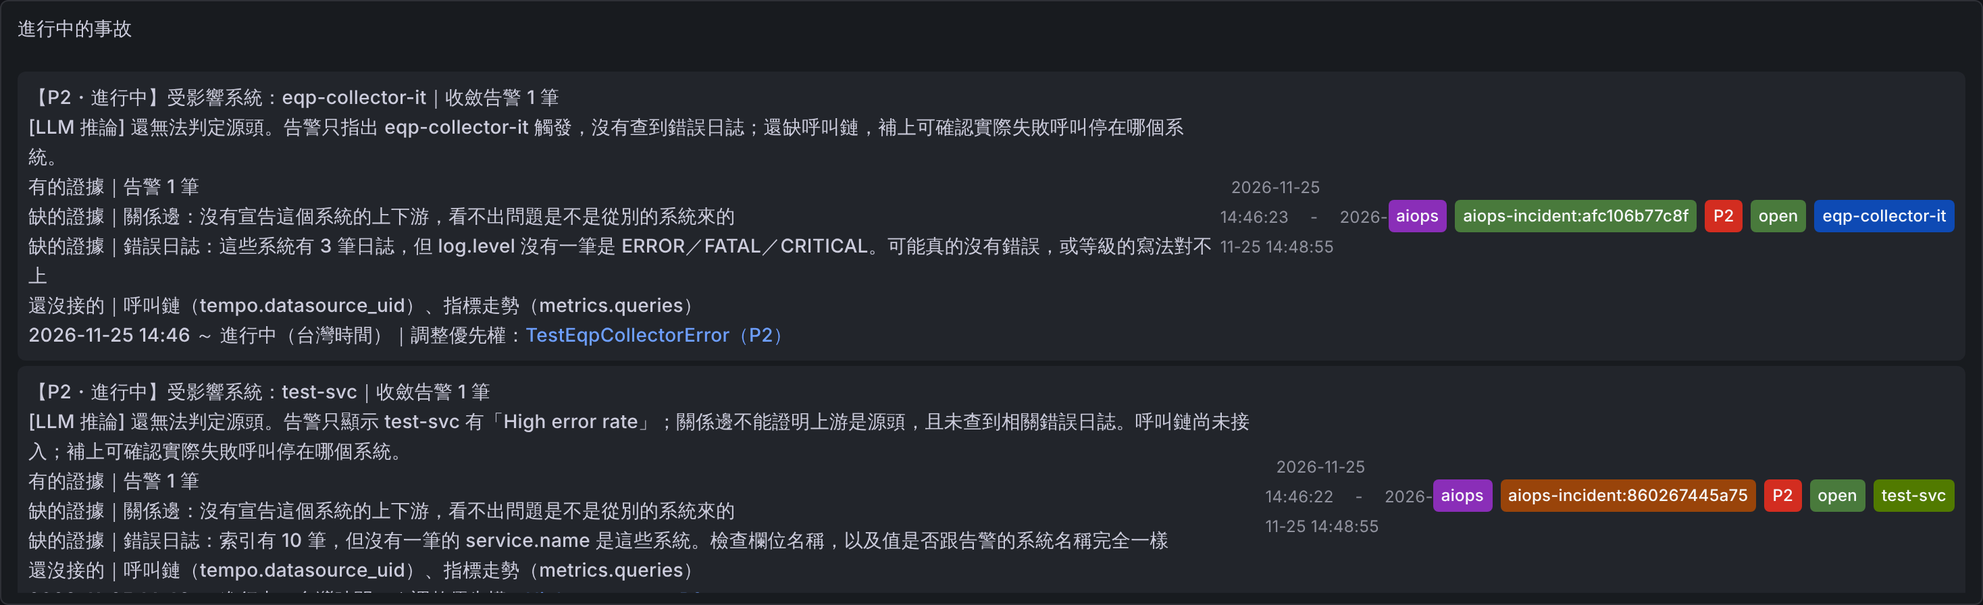
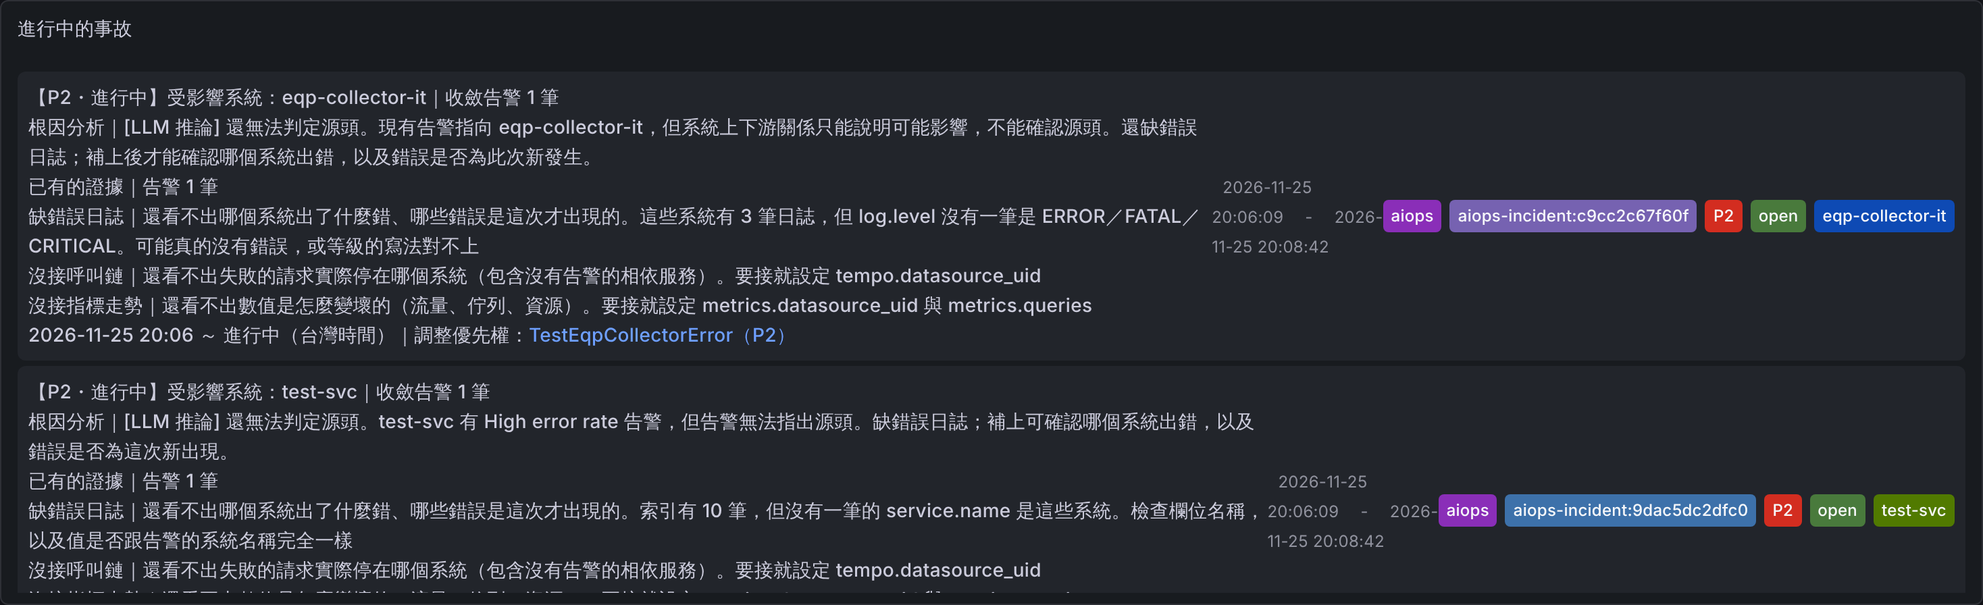
註記以根因分析為主：缺的證據改成說「少了它還看不出什麼」
使用者回饋：註記列了一堆證據，但看不出跟根因分析有什麼關係。
主角應該是根因分析；缺什麼要列，但要說缺了它哪一種分析做不了。

- 第 2 行加上標題：根因分析｜[LLM 推論] …（[未經分析] 同樣）。
- 證據的幾行改寫（都還是程式照實際撈到的結果產生）：
    已有的證據｜…
    缺<名稱>｜還看不出<它能回答的問題>。<哪一關沒過、要檢查什麼>
    <名稱>查詢失敗｜還看不出…。<原因>
    沒接<名稱>｜還看不出…。要接就設定 <config.yaml 的鍵>
  每種證據能回答什麼問題集中在 rca.CAN_ANSWER 一張表。
  沒接的來源原本擠在同一行，現在每項一行，因為各自擋住的分析不同。
- 提示詞裡引用這幾行的用字跟著改。沒有新增查詢，也沒有新的對外接口。

既有測試的變更：註記與證據行的用字是這次刻意改的，test_main、
test_overview、test_rca_report_db 裡比對這些文字的斷言照新的用字更新；
檢查的事情（哪一關沒過、每項一行、有跳脫、三種 0 筆的原因分得出來）沒有變。

驗證（本機真的 Grafana 13.0.7、Elasticsearch 8.19.23、LLM gpt-6-luna）
- 完整流程三張事故的註記照新版面寫進 Grafana，畫面在
  demo/images/5-evidence-lines.png：日誌齊全的那張寫出源頭與依據；
  另外兩張寫「還無法判定」，底下分別指出系統名稱對不上、沒有錯誤等級的日誌。
- 評估案例各 5 次：開發用的 50/50（改動前 48/50）；留出的 25/30
  （改動前 27/30）。少的兩次都在 h01；h01 在改動前後的程式上各跑 10 次
  都是 3/10，不是這次造成的，那一題本來就只有三成。
- 267 個測試，SQLite 與 PostgreSQL 16 都通過。

限制：只有告警、其他證據都缺時，根因分析一定是「還無法判定」；
這次改的是把它講清楚，不會讓沒有證據的事故變得分析得出來。
註記比之前再多一兩行。

Claude-Session: https://claude.ai/code/session_016jTR1CgmEDqbHkLDUFUu17

Changed region(s): [[0.0, 0.1875, 0.8678, 0.5938], [0.0, 0.6875, 0.9918, 0.9688], [0.6199, 0.2812, 0.6509, 0.3125]]

diff --git a/tests/test_overview.py b/tests/test_overview.py
@@ -59,7 +59,7 @@ def test_everything_present_is_listed_with_counts(fake):
     assert text.startswith("告警 3 筆、這些系統之間的關係邊 2 條、錯誤日誌 ")
     for part in ("識別碼", "跨系統時間線", "失敗請求的呼叫鏈 1 條", "指標走勢 1 條"):
         assert part in text
-    assert rca.overview_text(got) == "有的證據｜" + text   # 什麼都不缺：只有一行
+    assert rca.overview_text(got) == "已有的證據｜" + text   # 什麼都不缺：只有一行
 
 
 # ── 錯誤日誌 0 筆：三種原因分得出來，各有下一步 ──
@@ -74,7 +74,7 @@ def test_zero_error_logs_says_which_step_failed(fake, counts, says, next_step):
     fake.log_counts = counts
     ev = collect(fake)
     text = line(ev)
-    [missing] = [l for l in text.splitlines() if l.startswith("缺的證據｜錯誤日誌：")]   # 自己一行
+    [missing] = [l for l in text.splitlines() if l.startswith("缺錯誤日誌｜還看不出哪個系統出了什麼錯、哪些錯誤是這次才出現的。")]   # 自己一行，先講少了它哪種分析做不了
     assert says in missing and next_step in missing
     assert len(fake.count_requests) == 1
     # 送出去的計數查詢跟錄製時同一個形狀（兩個子查詢：整個時間窗、時間窗 + 系統）
@@ -100,14 +100,15 @@ def test_if_the_count_itself_fails_the_line_still_says_logs_are_missing(fake):
     real = fake.msearch
     fake.msearch = lambda body: real(body) if '"size": 100' in body else httpx.Response(500, json={"message": "boom"})
     ev = collect(fake)
-    assert "缺的證據｜錯誤日誌：沒有查到這些系統的錯誤日誌" in line(ev) and "log_counts" not in ev
+    assert "缺錯誤日誌｜還看不出哪個系統出了什麼錯、哪些錯誤是這次才出現的。沒有查到這些系統的錯誤日誌" in line(ev) and "log_counts" not in ev
 
 
 # ── 沒接、查詢失敗 ──
 
 def test_sources_that_are_not_configured_are_listed_as_not_connected(fake):
     text = line(collect(fake, es=""))
-    assert "還沒接的｜日誌（es.datasource_uid）、呼叫鏈（tempo.datasource_uid）、指標走勢（metrics.queries）" in text
+    assert [l.split("｜")[0] for l in text.splitlines()[1:]] == ["沒接日誌", "沒接呼叫鏈", "沒接指標走勢"]
+    assert "沒接日誌｜還看不出哪個系統出了什麼錯、哪些錯誤是這次才出現的。要接就設定 es.datasource_uid" in text
     assert "查詢失敗" not in text
 
 
@@ -115,7 +116,7 @@ def test_failed_queries_are_reported_as_failed_not_as_missing(fake):
     fake.fail.add("/api/datasources/proxy/uid/")
     ev = collect(fake, tempo="tempo-uid", metrics=rca.MetricOptions(datasource_uid="prom-uid", queries=(METRIC,)))
     got = rca.overview(ev)
-    assert [s.split("：")[0] for s in got["failed"]] == ["日誌", "呼叫鏈", "指標走勢"] and got["off"] == []
+    assert [name for name, _why in got["failed"]] == ["日誌", "呼叫鏈", "指標走勢"] and got["off"] == []
 
 
 def test_queried_but_empty_traces_and_metrics_say_why(fake):
@@ -123,14 +124,15 @@ def test_queried_but_empty_traces_and_metrics_say_why(fake):
     ev = collect(fake, incident("amhs-mcs"), tempo="tempo-uid",
                  metrics=rca.MetricOptions(datasource_uid="prom-uid", queries=(METRIC,)))
     text = line(ev)
-    assert "缺的證據｜呼叫鏈：Tempo 裡沒有這些系統的失敗請求" in text and "缺的證據｜指標走勢：設定的查詢在這段時間都沒有資料" in text
+    assert "缺呼叫鏈｜還看不出失敗的請求實際停在哪個系統（包含沒有告警的相依服務）。Tempo 裡沒有這些系統的失敗請求" in text
+    assert "缺指標走勢｜還看不出數值是怎麼變壞的（流量、佇列、資源）。設定的查詢在這段時間都沒有資料" in text
 
 
 # ── 關係邊 ──
 
 def test_edges_are_judged_against_the_systems_in_this_incident(fake):
     assert "這些系統之間的關係邊 2 條" in line(collect(fake))
-    assert "缺的證據｜關係邊：這幾個系統之間沒有宣告上下游" in line(collect(fake, edges=[("x", "y")]))
+    assert "缺關係邊｜還看不出這幾個系統誰影響誰。這幾個系統之間沒有宣告上下游" in line(collect(fake, edges=[("x", "y")]))
     assert "連到這個系統的關係邊 1 條（另一端沒有告警）" in line(collect(fake, incident("mq-broker")))
     alone = line(collect(fake, incident("mq-broker"), edges=[]))
     assert "關係邊" not in alone   # 單一系統、沒宣告關係邊：不算缺（系統自己出問題時不需要它）
@@ -141,11 +143,11 @@ def test_edges_are_judged_against_the_systems_in_this_incident(fake):
 def test_annotation_shows_the_evidence_line_between_summary_and_time_and_escapes_it():
     inc = incident()
     inc.summary = "[LLM 推論] 還無法判定源頭"
-    inc.evidence_note = "有的證據｜告警 3 筆\n缺的證據｜錯誤日誌：<b>x</b>  多個空白\n\n還沒接的｜呼叫鏈（tempo.datasource_uid）"
+    inc.evidence_note = "已有的證據｜告警 3 筆\n缺錯誤日誌｜<b>x</b>  多個空白\n\n沒接呼叫鏈｜要接就設定 tempo.datasource_uid"
     l1, l2, have, missing, off, last = report.render(inc, "http://g", "Asia/Taipei")["text"].split("<br>")
-    assert (have, off) == ("有的證據｜告警 3 筆", "還沒接的｜呼叫鏈（tempo.datasource_uid）")
-    assert missing == "缺的證據｜錯誤日誌：&lt;b&gt;x&lt;/b&gt; 多個空白"   # 跳脫；每項自己一行
-    assert l2 == "[LLM 推論] 還無法判定源頭" and "台灣時間" in last
+    assert (have, off) == ("已有的證據｜告警 3 筆", "沒接呼叫鏈｜要接就設定 tempo.datasource_uid")
+    assert missing == "缺錯誤日誌｜&lt;b&gt;x&lt;/b&gt; 多個空白"   # 跳脫；每項自己一行
+    assert l2 == "根因分析｜[LLM 推論] 還無法判定源頭" and "台灣時間" in last
     inc.evidence_note = ""
     assert report.render(inc, "http://g", "Asia/Taipei")["text"].count("<br>") == 2   # 還沒收集過證據：沒有這一行
 
@@ -165,9 +167,9 @@ def test_a_round_writes_the_reason_into_the_annotation_and_tells_the_llm(world):
     w.receive("firing_mq", "firing_cim")
     assert w.run(60, llm=httpx.MockTransport(llm))["status"] == "ok"
     [inc] = rows(w, dbmod.incidents)
-    assert "缺的證據｜錯誤日誌：索引有 4 筆，但沒有一筆的 service.name 是這些系統" in inc["evidence_note"]
+    assert "缺錯誤日誌｜還看不出哪個系統出了什麼錯、哪些錯誤是這次才出現的。索引有 4 筆，但沒有一筆的 service.name 是這些系統" in inc["evidence_note"]
     note = w.fake.annotations[inc["annotation_id"]]["text"]
-    assert "[LLM 推論] 還無法判定源頭" in note and "<br>有的證據｜告警 2 筆" in note and "<br>缺的證據｜錯誤日誌：" in note and "service.name 是這些系統" in note
+    assert "<br>根因分析｜[LLM 推論] 還無法判定源頭" in note and "<br>已有的證據｜告警 2 筆" in note and "<br>缺錯誤日誌｜還看不出" in note and "service.name 是這些系統" in note
     prompt = calls[0]["messages"][1]["content"]
     assert prompt.startswith("【0. 證據概況") and "service.name 是這些系統" in prompt.split("【1.")[0]
     system = calls[0]["messages"][0]["content"]
@@ -183,7 +185,7 @@ def test_the_evidence_line_survives_a_restart_and_is_kept_when_only_the_status_c
     w.run(120)   # 只是恢復：不重新分析，證據那一行照舊
     [after] = rows(w, dbmod.incidents)
     assert after["evidence_note"] == before["evidence_note"] != "" and len(w.llm_calls) == 1
-    assert "有的證據｜" in w.fake.annotations[after["annotation_id"]]["text"]
+    assert "已有的證據｜" in w.fake.annotations[after["annotation_id"]]["text"]
 
 
 def test_without_llm_the_evidence_line_is_still_written(world):  # noqa: F811
@@ -191,7 +193,7 @@ def test_without_llm_the_evidence_line_is_still_written(world):  # noqa: F811
     w.receive("firing_mq")
     w.run(60, settings=replace(w.settings, llm_model=""))
     [inc] = rows(w, dbmod.incidents)
-    assert inc["summary"].startswith("[未經分析]") and inc["evidence_note"].startswith("有的證據｜告警 1 筆")
+    assert inc["summary"].startswith("[未經分析]") and inc["evidence_note"].startswith("已有的證據｜告警 1 筆")
 
 
 def test_source_field_is_optional_but_must_be_a_system_in_the_evidence(fake):

diff --git a/tests/test_main.py b/tests/test_main.py
@@ -71,11 +71,12 @@ def test_cascade_becomes_one_incident_one_llm_call_one_annotation_then_closes(wo
     assert inc["alert_count"] == 3 and inc["analyzed"] and rows(w, dbmod.inbox) == []
     assert len(w.fake.annotations) == 1 and len(w.llm_calls) == 1  # 三個告警只問一次 LLM、只寫一筆註記
     note = w.fake.annotations[inc["annotation_id"]]
-    l1, l2, have, off, l3 = note["text"].split("<br>")   # 中間多了證據的幾行：手上有什麼、還沒接什麼（程式產生）
+    l1, l2, have, *off, l3 = note["text"].split("<br>")   # 中間是證據的幾行：手上有什麼、沒接的各自讓哪種分析做不了
     assert l1 == "【P1・進行中】受影響系統：amhs-mcs、cim-eap、mq-broker｜收斂告警 3 筆"
-    assert l2.startswith("[LLM 推論] ") and "EQP-CVD-07" in l2 and "10:41 ～ 進行中（台灣時間）" in l3
-    assert have.startswith("有的證據｜告警 3 筆、這些系統之間的關係邊 2 條、錯誤日誌 ")
-    assert off == "還沒接的｜呼叫鏈（tempo.datasource_uid）、指標走勢（metrics.queries）"
+    assert l2.startswith("根因分析｜[LLM 推論] ") and "EQP-CVD-07" in l2 and "10:41 ～ 進行中（台灣時間）" in l3
+    assert have.startswith("已有的證據｜告警 3 筆、這些系統之間的關係邊 2 條、錯誤日誌 ")
+    assert off == ["沒接呼叫鏈｜還看不出失敗的請求實際停在哪個系統（包含沒有告警的相依服務）。要接就設定 tempo.datasource_uid",
+                   "沒接指標走勢｜還看不出數值是怎麼變壞的（流量、佇列、資源）。要接就設定 metrics.datasource_uid 與 metrics.queries"]
     assert inc["evidence_note"] and "【0. 證據概況" in w.llm_calls[0]["messages"][1]["content"]
     assert note["time"] == int(T0.timestamp() * 1000) and "open" in note["tags"]
     prompt = w.llm_calls[0]["messages"][1]["content"]

diff --git a/src/report.py b/src/report.py
@@ -1,8 +1,8 @@
 """把一個事故寫成 Grafana 註記。數字與時間全部由程式產生，LLM 只提供第 2 行的文字。
 
   第 1 行（程式）      受影響系統、嚴重度、收斂的告警筆數
-  第 2 行              [LLM 推論] …  或  [未經分析] 原始異常摘要
-  證據的幾行（程式）   有的證據｜…（一行）、缺的證據｜名稱：原因（每項一行）、查詢失敗｜…（每項一行）、還沒接的｜…（一行）
+  第 2 行              根因分析｜[LLM 推論] …  或  根因分析｜[未經分析] 原始異常摘要
+  證據的幾行（程式）   已有的證據｜…（一行）；缺的、查詢失敗的、沒接的每項一行，寫出「少了它還看不出什麼」與原因
                        還沒收集過證據的事故沒有這幾行
   最後一行（程式）     起訖時間（台灣時間）+ 調整優先權的規則連結
 
@@ -40,7 +40,7 @@ def render(incident: Incident, grafana_url: str, tz: str, max_links: int = 5) ->
     """回傳 POST／PATCH /api/annotations 的內容（time、timeEnd、tags、text）。"""
     line1 = (f"【{incident.severity}・{STATUS_TEXT[incident.status]}】"
              f"受影響系統：{html.escape('、'.join(incident.services))}｜收斂告警 {incident.alert_count} 筆")
-    line2 = html.escape(" ".join(incident.summary.split()))
+    line2 = "根因分析｜" + html.escape(" ".join(incident.summary.split()))   # 這一行是主角；[LLM 推論]／[未經分析] 的標示緊接在後
     end = incident.ended_at if incident.status == "closed" and incident.ended_at else None
     span = f"{local_time(incident.started_at, tz)} ～ {local_time(end, tz) if end else '進行中'}（台灣時間）"
     rules: dict[tuple[str, str], str] = {}  # (rule_uid, 規則名稱) -> 這條規則在這個事故裡最高的嚴重度

diff --git a/src/grouping.py b/src/grouping.py
@@ -52,7 +52,7 @@ class Incident:
     annotated: bool = False          # 目前的內容寫回 Grafana 了沒（沒寫成功下一輪補）
     llm_failures: int = 0            # LLM 分析連續失敗幾次（成功就歸零）；退避用
     llm_next_try: datetime | None = None  # 退避中：這個時間之前不再查 ES、不再打 LLM
-    evidence_note: str = ""          # 註記的「證據」那一行：這次分析手上有哪些證據、缺哪些、為什麼缺（程式產生）
+    evidence_note: str = ""          # 註記上證據的那幾行：已有哪些、缺哪些各自讓哪種分析做不了（程式產生）
     changed: bool = field(default=False, compare=False)  # 這一輪有沒有變（只活在記憶體，不存檔）
     fresh: bool = field(default=False, compare=False)    # 這一輪成員或嚴重度變了（只活在記憶體）：要重新分析
 

diff --git a/tests/test_rca_report_db.py b/tests/test_rca_report_db.py
@@ -131,7 +131,7 @@ def test_annotation_is_three_lines_with_taiwan_time_and_rule_links():
     body = report.render(inc, "https://grafana.corp/", "Asia/Taipei")
     l1, l2, l3 = body["text"].split("<br>")
     assert l1 == "【P1・進行中】受影響系統：cim-eap、mq-broker｜收斂告警 2 筆"
-    assert l2 == "[LLM 推論] 源頭可能是 mq-broker"
+    assert l2 == "根因分析｜[LLM 推論] 源頭可能是 mq-broker"
     assert l3.startswith("2026-11-21 10:41 ～ 進行中（台灣時間）｜調整優先權：")
     assert '<a href="https://grafana.corp/alerting/cg4xgh0mv7oqod/edit" target="_blank">MQ queue depth（P1）</a>' in l3
     assert l3.index("MQ queue depth") < l3.index("CIM T3 timeout")  # 嚴重的排前面

diff --git a/README.md b/README.md
@@ -106,26 +106,57 @@ Webhook 內容裡雖然帶組織編號，但程式不看；這些都是依 Grafa
 
 ## 註記怎麼讀
 
+主角是第 2 行的根因分析。底下幾行說明這個分析是根據什麼做的，以及還有哪些分析做不了、為什麼。
+
+有證據時：
+
 ```
-【P2・進行中】受影響系統：test-svc｜收斂告警 1 筆                          ← 程式：誰受影響、多嚴重
-[LLM 推論] 還無法判定源頭。告警只顯示 test-svc 有「High error rate」；…     ← 模型：結論、依據、還缺什麼
-有的證據｜告警 1 筆                                                          ← 程式：這次分析手上有什麼
-缺的證據｜錯誤日誌：索引有 10 筆，但沒有一筆的 service.name 是這些系統。檢查欄位名稱，以及值是否跟告警的系統名稱完全一樣
-還沒接的｜呼叫鏈（tempo.datasource_uid）、指標走勢（metrics.queries）        ← 程式：config.yaml 還沒設定的來源；缺的每項一行、附原因
-2026-11-25 14:46 ～ 進行中（台灣時間）｜調整優先權：High error rate（P2）    ← 程式：時間與規則連結
+【P1・進行中】受影響系統：amhs-mcs、cim-eap、mq-broker｜收斂告警 3 筆
+根因分析｜[LLM 推論] 最可能源頭是 mq-broker：錯誤日誌寫 /data 磁碟使用率 98%、無空間可寫入佇列 eap.events…
+已有的證據｜告警 3 筆、這些系統之間的關係邊 2 條、錯誤日誌 4 種、事故前後的次數比較 4 種錯誤（4 種事故前沒出現過）、…
+沒接呼叫鏈｜還看不出失敗的請求實際停在哪個系統（包含沒有告警的相依服務）。要接就設定 tempo.datasource_uid
+沒接指標走勢｜還看不出數值是怎麼變壞的（流量、佇列、資源）。要接就設定 metrics.datasource_uid 與 metrics.queries
+2026-11-25 20:05 ～ 進行中（台灣時間）｜調整優先權：MQ queue depth（P1）、…
 ```
 
-![證據的幾行](demo/images/5-evidence-lines.png)
+日誌沒撈到時：
 
-- 「有的證據」裡的「事故前後的次數比較 N 種錯誤（M 種事故前沒出現過）」：程式把同一種錯誤歸在一起，
-  向 ES 問它在事故期間與事故前各出現幾筆。事故前就一直有的錯誤是平常的雜訊，不會被當成這次的原因。
-- **證據的幾行是程式照實際撈到的結果寫的，不是模型的說法。** 模型說「證據不足」時，看這幾行就知道不足在哪裡。
-- 「缺的證據」每一項都帶原因與下一步。錯誤日誌是 0 筆時，程式會多問一次筆數，分清楚三種情況：
-  索引在這段時間沒有資料、有資料但系統名稱對不上、系統有日誌但沒有一筆算錯誤。
-- 「查詢失敗」是 Grafana 的資料源查不動（跟「查了但沒有」不同），原因在服務的 log。
-- 「還沒接的」括號裡是 `config.yaml` 要設的鍵。
-- 模型被要求用白話寫：先講結論，再講依據（引用哪一種證據裡的什麼），判斷不出來時講還缺哪一項、補上能確認什麼。
-  「某個系統在上游」不能當成它是源頭的依據。
+```
+【P2・進行中】受影響系統：test-svc｜收斂告警 1 筆
+根因分析｜[LLM 推論] 還無法判定源頭。test-svc 有 High error rate 告警，但告警無法指出源頭。缺錯誤日誌；補上可確認…
+已有的證據｜告警 1 筆
+缺錯誤日誌｜還看不出哪個系統出了什麼錯、哪些錯誤是這次才出現的。索引有 10 筆，但沒有一筆的 service.name 是這些系統。檢查欄位名稱…
+沒接呼叫鏈｜還看不出失敗的請求實際停在哪個系統（包含沒有告警的相依服務）。要接就設定 tempo.datasource_uid
+…
+```
+
+![Grafana 上的實際畫面](demo/images/5-evidence-lines.png)
+
+| 行 | 誰寫的 | 內容 |
+| --- | --- | --- |
+| `根因分析｜[LLM 推論] …` | 模型 | 結論、依據，判斷不出來時說還缺什麼。標 `[未經分析]` 時是沒有經過模型的原始告警清單 |
+| `已有的證據｜…` | 程式 | 這次分析實際拿到什麼 |
+| `缺<名稱>｜還看不出<什麼>。<原因>` | 程式 | 查了但沒有。先講少了它哪一種分析做不了，再講是哪一關沒過、要檢查什麼 |
+| `<名稱>查詢失敗｜…` | 程式 | Grafana 的資料源查不動（跟「查了但沒有」不同），原因在服務的 log |
+| `沒接<名稱>｜還看不出<什麼>。要接就設定 <鍵>` | 程式 | `config.yaml` 還沒設定的來源 |
+
+每種證據能回答的問題：
+
+| 證據 | 少了它還看不出什麼 |
+| --- | --- |
+| 關係邊 | 這幾個系統誰影響誰（只有一個系統告警時不需要，不會列為缺） |
+| 錯誤日誌 | 哪個系統出了什麼錯、哪些錯誤是這次才出現的 |
+| 機台與批號 | 問題集中在哪台機台、哪個批號 |
+| 呼叫鏈 | 失敗的請求實際停在哪個系統（包含沒有告警的相依服務） |
+| 指標走勢 | 數值是怎麼變壞的（流量、佇列、資源） |
+
+- 錯誤日誌是 0 筆時，程式會多問一次筆數，分清楚三種情況：索引在這段時間沒有資料、有資料但系統名稱對不上、
+  系統有日誌但沒有一筆算錯誤。
+- 「事故前後的次數比較 N 種錯誤（M 種事故前沒出現過）」：程式把同一種錯誤歸在一起，向 ES 問它在事故期間與事故前各出現幾筆。
+  事故前就一直有的錯誤是平常的雜訊，不會被當成這次的原因。
+- 模型被要求用白話寫，而且「某個系統在上游」不能當成它是源頭的依據。
+- **只有告警、其他證據都缺的時候，根因分析一定是「還無法判定」。** 這不是分析壞了，是沒有東西可以分析；
+  底下那幾行就是在說要補什麼。
 - 還沒收集過證據的事故（例如 LLM 退避中才成立的）沒有證據的那幾行。
 
 ## 錯誤日誌交給 LLM 之前的處理
@@ -195,11 +226,11 @@ edges:
 | `src/main.py` | 505 | 讀 config.yaml（嚴格檢查）與「一輪」的流程 |
 | `src/grafana.py` | 392 | 解析告警 Webhook、ES Proxy 查日誌與 Trace、寫註記 |
 | `src/grouping.py` | 167 | 同實體合併、拓撲鏈收斂、併入進行中事故、嚴重度只升不降、全部 resolved 且安靜夠久才結案 |
-| `src/rca.py` | 700 | 不寫推理演算法：收集證據（告警、關係邊、日誌、識別碼統計、批號時間線、Tempo 呼叫鏈）、組 Prompt、呼叫 LLM、幻覺檢查、失敗退回原始摘要 |
+| `src/rca.py` | 718 | 不寫推理演算法：收集證據（告警、關係邊、日誌、識別碼統計、批號時間線、Tempo 呼叫鏈）、組 Prompt、呼叫 LLM、幻覺檢查、失敗退回原始摘要 |
 | `src/report.py` | 64 | 註記的固定格式（標題、摘要、證據的幾行、時間與調整優先權連結；台灣時間、HTML 跳脫） |
 | `src/db.py` | 186 | SQLAlchemy Core（SQLite／PostgreSQL），啟動自動建表：待處理告警、事故、每輪執行紀錄 |
 
-合計約 2,232 行。
+合計約 2,250 行。
 
 ## 各系統要做的事（平台零直連）
 

diff --git a/CLAUDE.md b/CLAUDE.md
@@ -16,7 +16,7 @@
 | **對外只有一把 Grafana Editor Token** | 日誌、Trace、註記全部經 Grafana（資料源代理、Annotations API）。嚴禁直連 Elasticsearch、Tempo、產線資料庫 |
 | **什麼算異常由各系統自己的 Grafana 規則決定** | 平台不判斷數值、不放偵測器。告警沒推進來，平台就什麼都不做。指標走勢那包證據只做算術（基準、最大、倍數），不准加「超過多少算異常」的門檻；要抓趨勢就寫成 Grafana 規則（`INPUTS.md`） |
 | **輸出即終點** | 產出只有 Grafana 註記（事故卡與 RCA 摘要）。不派工、不重啟、不改設定、不起子行程 |
-| **LLM 的結論不准看起來像定論** | 註記第 2 行固定標 `[LLM 推論]` 或 `[未經分析]`；LLM 失敗、格式不對、點名了證據裡沒有的東西，一律退回原始摘要，不硬猜 |
+| **LLM 的結論不准看起來像定論** | 註記第 2 行固定是 `根因分析｜[LLM 推論] …` 或 `根因分析｜[未經分析] …`；LLM 失敗、格式不對、點名了證據裡沒有的東西，一律退回原始摘要，不硬猜 |
 | **資料源的缺口不在程式裡補** | 沒日誌、欄位對不上、時間戳錯，照實寫進證據的補充說明與文件的「已知限制」。格式差異只能用 `config.yaml` 的欄位對照吸收，不准寫業務特判 |
 | **設定只有一份 `config.yaml`** | 唯一的環境變數是 `AIOPS_CONFIG_FILE`。鍵名打錯、型別不對、必填沒填，啟動時直接報錯 |
 | **機密不進 Git** | Token、密碼只放 `config.yaml`／`secrets.values.yaml`（已被 `.gitignore` 排除）；Helm 用 Secret 掛載 |

diff --git a/CONFIG.md b/CONFIG.md
@@ -143,7 +143,7 @@ es:
 | 嚴重度只有 P0～P3 與它們的排序 | `src/grafana.py` 的 `SEVERITIES`、`src/grouping.py` 的 `SEVERITY_RANK` | 儀表板用 `P0`、`P1` 標籤查註記；改了儀表板失效、舊事故對不上 |
 | 註記標籤 `aiops`、`aiops-incident:<uid>`、`open`／`closed`、系統名稱 | `src/report.py` | 儀表板的查詢、「註記建過就不重複建」的查找都依賴這些標籤 |
 | 註記的版面（標題、摘要、證據的幾行、時間）與「進行中／已結案」的文字 | `src/report.py` | 對外的呈現契約；`[LLM 推論]`／`[未經分析]` 的標示不能被設定拿掉 |
-| 證據幾行的用字與判斷（有的、缺的與原因、查詢失敗、還沒接的） | `src/rca.py` 的 `overview`、`overview_text` | 照實際撈到的結果產生，沒有可調的門檻；用字是給值班人員看的固定說法 |
+| 證據幾行的用字與判斷（已有的；缺的、查詢失敗的、沒接的各自讓哪一種分析做不了）、每種證據能回答什麼 | `src/rca.py` 的 `overview`、`overview_text`、`CAN_ANSWER` | 照實際撈到的結果產生，沒有可調的門檻；用字是給值班人員看的固定說法 |
 | 規則編輯連結的路徑 `/alerting/<uid>/edit` | `src/report.py` | 由 Grafana 的版本決定，不是我們的設定 |
 | 資料表與欄位名稱、成員告警的時間欄位 | `src/db.py` | 改了要搬資料；程式只會自動「補欄位」 |
 | 事故 uid 的長度（12 碼） | `src/grouping.py` | 內部識別；改了舊註記的標籤對不上 |

diff --git a/EVAL.md b/EVAL.md
@@ -75,11 +75,15 @@
 「各系統分開取最早幾筆錯誤」這個底層做法有留著：它讓被大量報錯的系統擠掉的早期錯誤仍然有樣本，
 也決定優先比較哪幾種錯誤。它跟去重是同一批改動，沒有單獨拆出來量。
 
+**之後的小改動**（註記版面改成「根因分析｜…」「缺…｜還看不出…」，提示詞裡對應的用字跟著改）：各跑 5 次，
+開發用的 50/50、留出的 25/30。留出的少兩次都在 h01；把 h01 在改動前後的程式上各跑 10 次，都是 3/10，
+所以不是這次改動造成的，那一題本來就只有三成。
+
 ## 還會錯的
 
 | 案例 | 情況 | 原因 |
 | --- | --- | --- |
-| h01 憑證過期 | 5 次裡 2 次被幻覺檢查退回，1 次說無法判定 | 模型把日誌裡的主機名稱 `mes.internal` 列進「點名的系統」，但它不是告警或關係邊裡的系統，檢查照規則擋下。這是留出的案例，沒有為它調整程式 |
+| h01 憑證過期 | 大約三成答對（10 次對 3 次）。其餘不是被幻覺檢查退回，就是說無法判定 | 模型把日誌裡的主機名稱 `mes.internal` 列進「點名的系統」，但它不是告警或關係邊裡的系統，檢查照規則擋下。這是留出的案例，沒有為它調整程式 |
 | s02 雜訊蓋住真錯誤 | 5 次裡 2 次說「還無法判定」 | 模型有引用到下游的新錯誤（PLC 連線中斷），但仍然保守地不下結論 |
 
 ## 這些數字不能代表什麼
